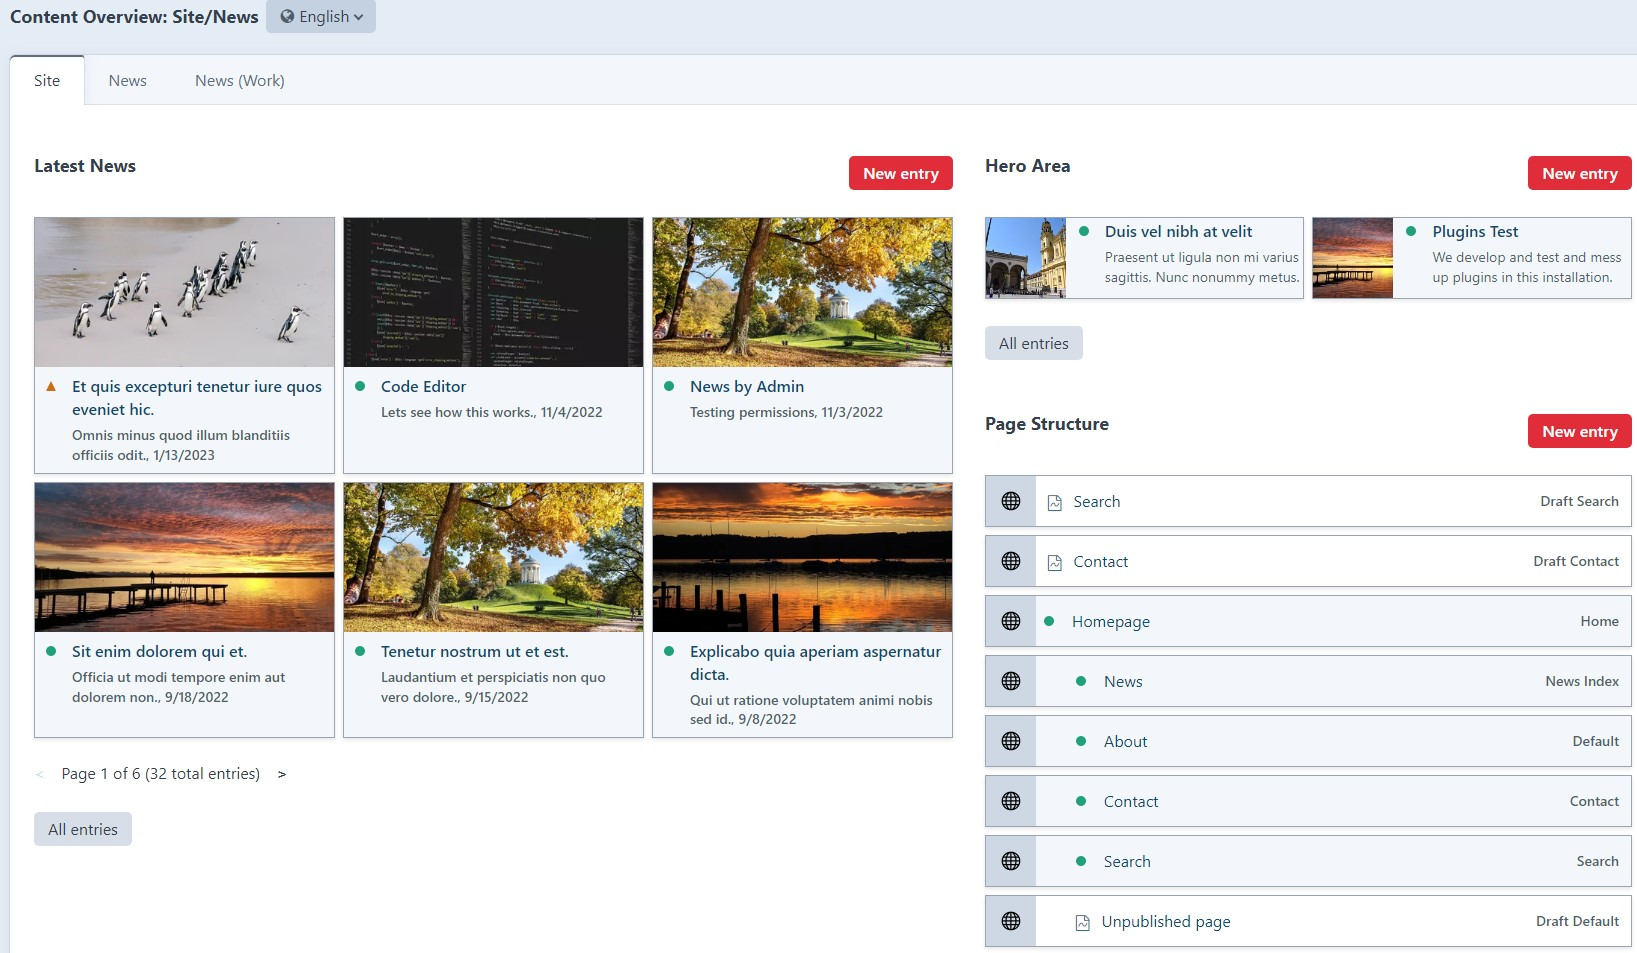
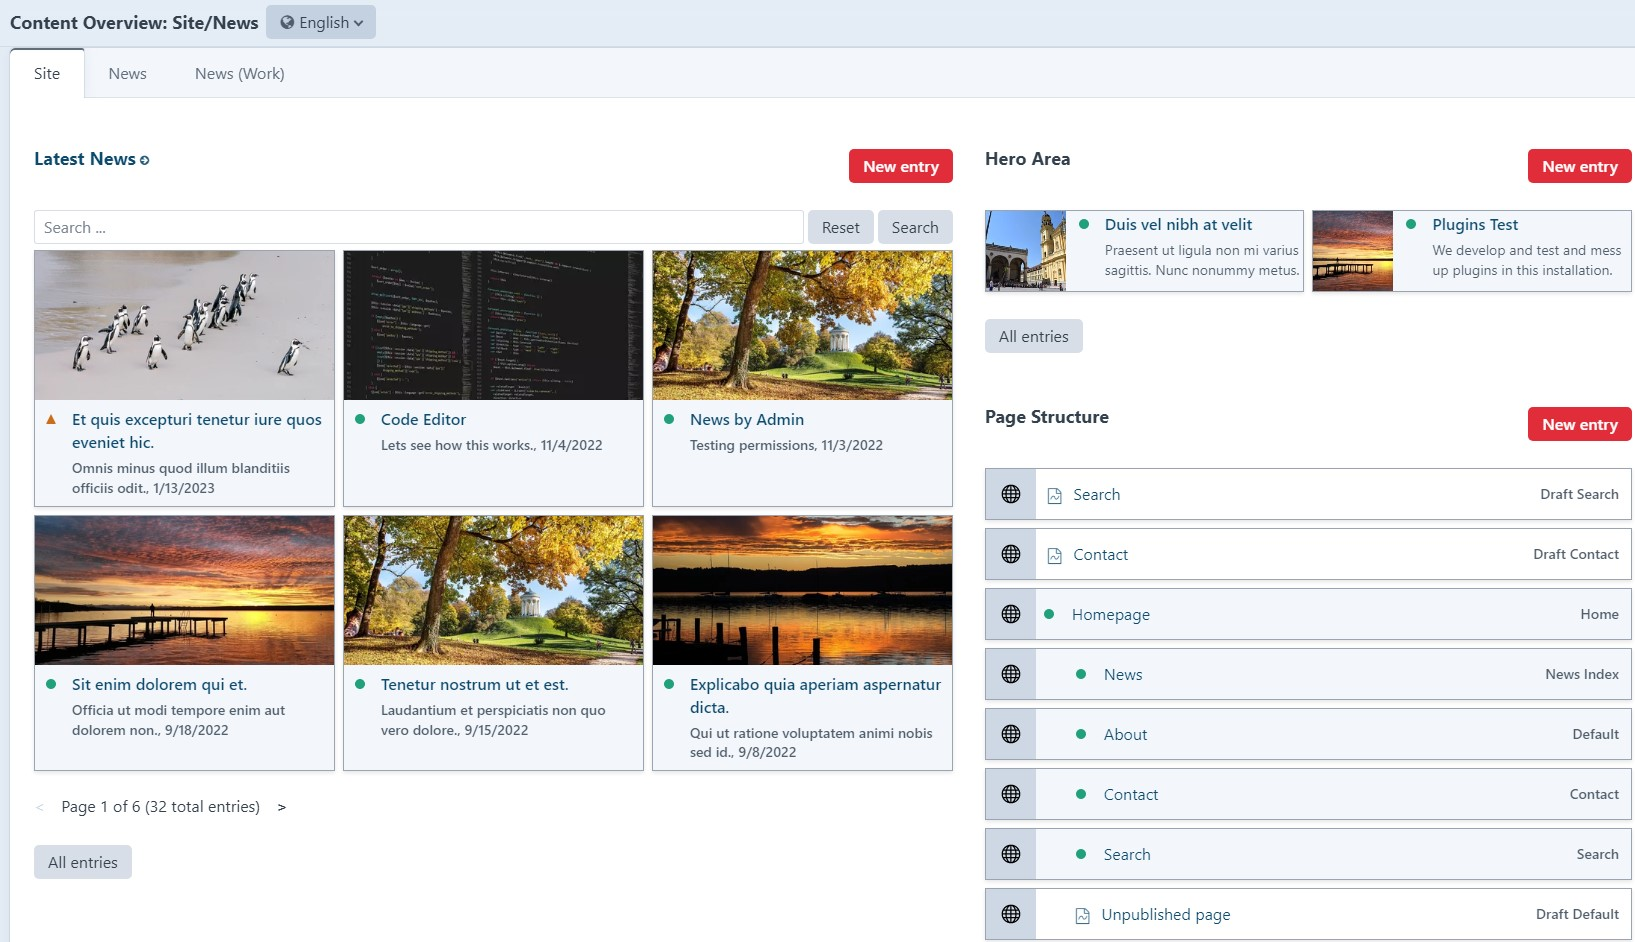
Search

diff --git a/src/assets/dist/cpscripts.js b/src/assets/dist/cpscripts.js
@@ -1,11 +1,24 @@
-function co_getSectionHtml(sectionPath, pageNo=1)
-{
+function co_getSectionHtml(sectionPath, pageNo = 1) {
     // TODO: Add error handling
-    const data = {sectionPath: sectionPath, pageNo: pageNo}
+
+    const data = {sectionPath: sectionPath, pageNo: pageNo, q: co_getSearchValue(sectionPath)}
     Craft.sendActionRequest('POST', 'contentoverview/section/get-section-html', {data})
         .then((response) => {
-            containerElement = document.getElementById(sectionPath);
-            containerElement.children[0].innerHTML = response.data.entriesHtml;
-            containerElement.children[1].innerHTML = response.data.paginateHtml;
+            containerElement = document.getElementById(sectionPath)
+            containerElement.children[0].innerHTML = response.data.entriesHtml
+            containerElement.children[1].innerHTML = response.data.paginateHtml
         });
+}
+
+
+function co_getSearchValue(sectionPath) {
+    input = document.getElementById(sectionPath + '-search')
+    return input.value
+}
+
+function co_resetSearch(sectionPath)
+{
+    input = document.getElementById(sectionPath + '-search')
+    input.value = ''
+    co_getSectionHtml(sectionPath, 1)
 }

diff --git a/src/assets/dist/cpstyles.css b/src/assets/dist/cpstyles.css
@@ -208,6 +208,16 @@
     gap: 0.5rem; /* 32px */
 }
 
+.co-search-container {
+    margin-bottom: 6px;
+    display: flex;
+    align-items: center;
+}
+
+.co-search-container button {
+    margin-left: 4px;
+}
+
 .co-info {
 
 }

diff --git a/src/models/Section.php b/src/models/Section.php
@@ -28,6 +28,7 @@ class Section extends Model
     public ?string $orderBy = null;
     public bool $ownDraftsOnly = false;
     public array|string $popupInfo = '';
+    public bool $search = false;
     public string $section = '';
     public ?string $scope = null;
     public ?string $status = null;
@@ -169,7 +170,8 @@ class Section extends Model
 
 
     /**
-     * Page key the section heading will be linked to
+     * Page key the section heading will be linked to. Can include a tab id as anchor
+     * e.g. page2#tab1
      *
      * @param string $linkToPage
      * @return $this
@@ -248,6 +250,19 @@ class Section extends Model
         return $this;
     }
 
+
+    /**
+     * Whether the section is searchable
+     *
+     * @param bool $search
+     * @return $this
+     */
+    public function search(bool $search): self
+    {
+        $this->search = $search;
+        return $this;
+    }
+
     /**
      * Filter by entry status. Will be passed as is to the entry query status setting.
      *
@@ -300,7 +315,7 @@ class Section extends Model
      *
      * @return array with keys entries: array of entries (respecting a limit, if set), count: number of entries (without limit)
      */
-    public function getEntries($pageNo = 1): Paginator
+    public function getEntries($pageNo = 1, $q = ''): Paginator
     {
         /** @var Settings $settings */
         $settings = Plugin::getInstance()->getSettings();
@@ -362,6 +377,13 @@ class Section extends Model
 
         if ($this->scope && $this->ownDraftsOnly) {
             $query->draftCreator(Craft::$app->user->identity);
+        }
+
+        $q = trim($q);
+        if ($q) {
+            $query
+                ->search($q)
+                ->orderBy('score desc');
         }
 
         if ($this->hasEventHandlers(self::EVENT_MODIFY_CONTENTOVERVIEW_QUERY)) {

diff --git a/src/controllers/SectionController.php b/src/controllers/SectionController.php
@@ -3,7 +3,6 @@
 namespace wsydney76\contentoverview\controllers;
 
 use Craft;
-
 use craft\web\Controller;
 use wsydney76\contentoverview\models\Section;
 use wsydney76\contentoverview\Plugin;
@@ -18,6 +17,7 @@ class SectionController extends Controller
         // in the form of page-tabIndex-columnIndex-sectionIndex e.g. page1-1-1-0
         $sectionPath = Craft::$app->request->getRequiredBodyParam('sectionPath');
         $pageNo = Craft::$app->request->getRequiredBodyParam('pageNo');
+        $q = Craft::$app->request->getBodyParam('q');
 
         $segments = explode('-', $sectionPath);
 
@@ -34,7 +34,7 @@ class SectionController extends Controller
             throw new ForbiddenHttpException();
         }
 
-        $results = $section->getEntries($pageNo);
+        $results = $section->getEntries($pageNo, $q);
 
         return $this->asJson([
             'entriesHtml' => $this->view->renderTemplate('contentoverview/partials/section.twig', [

diff --git a/src/translations/de/contentoverview.php b/src/translations/de/contentoverview.php
@@ -8,4 +8,5 @@ return [
     'Page' => 'Seite',
     'of' => 'von',
     'total entries' => 'Einträge insgesamt',
+    'Search' => 'Suchen',
 ];
